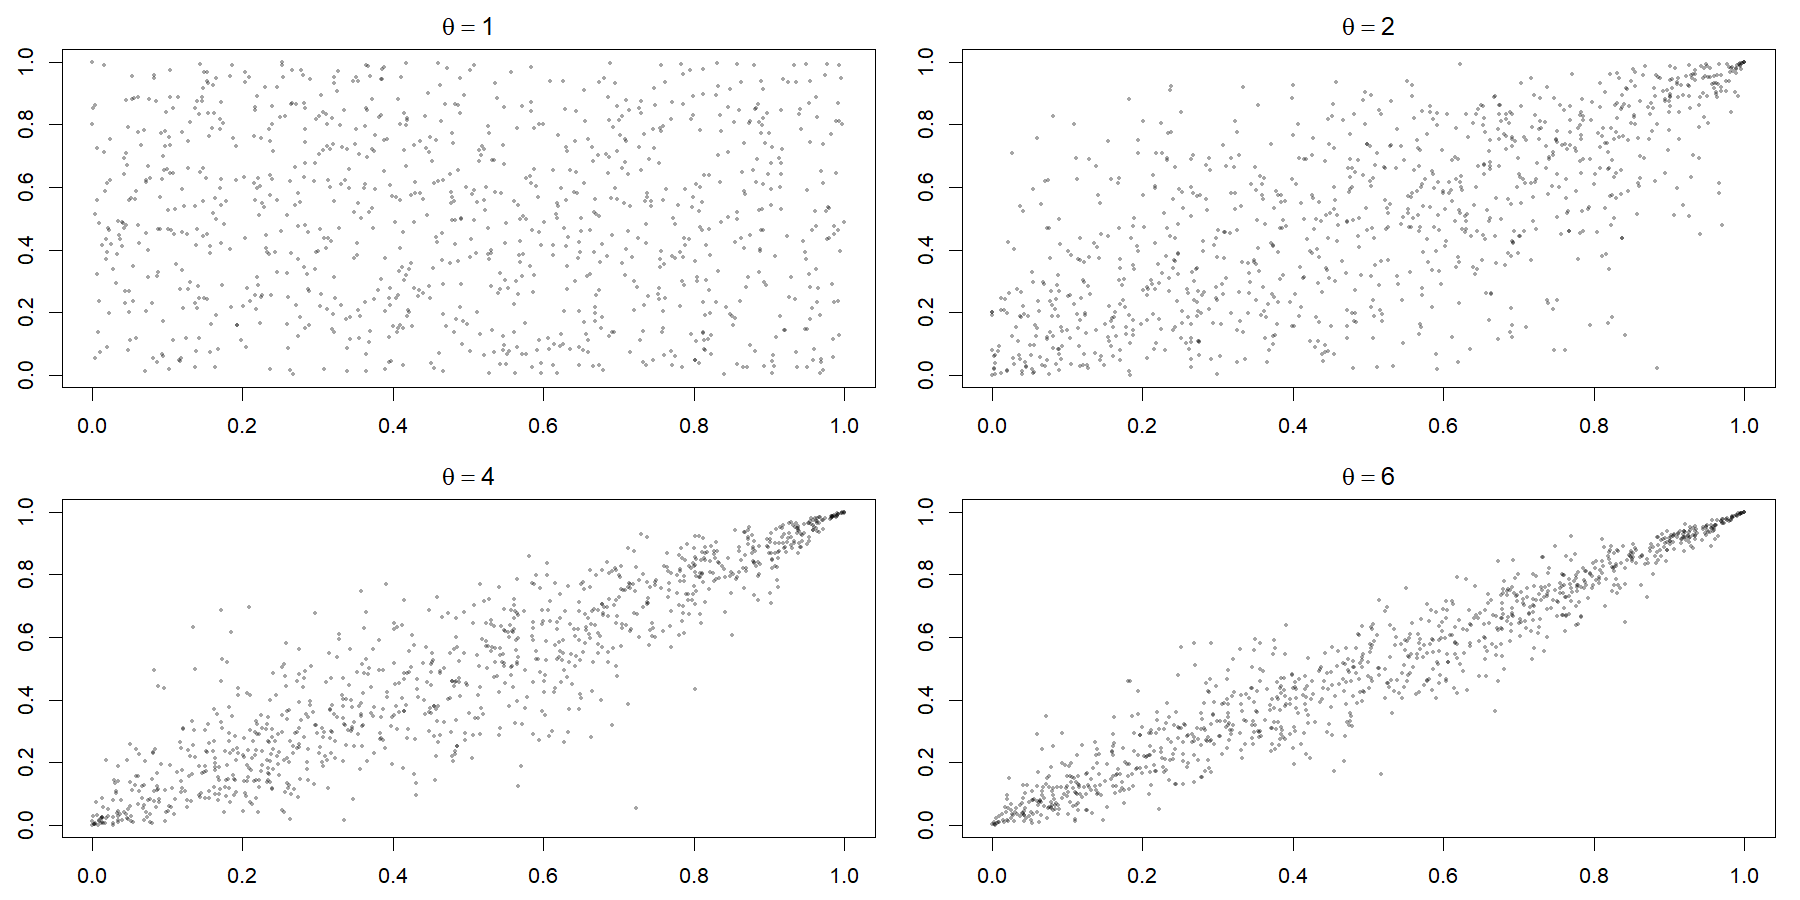
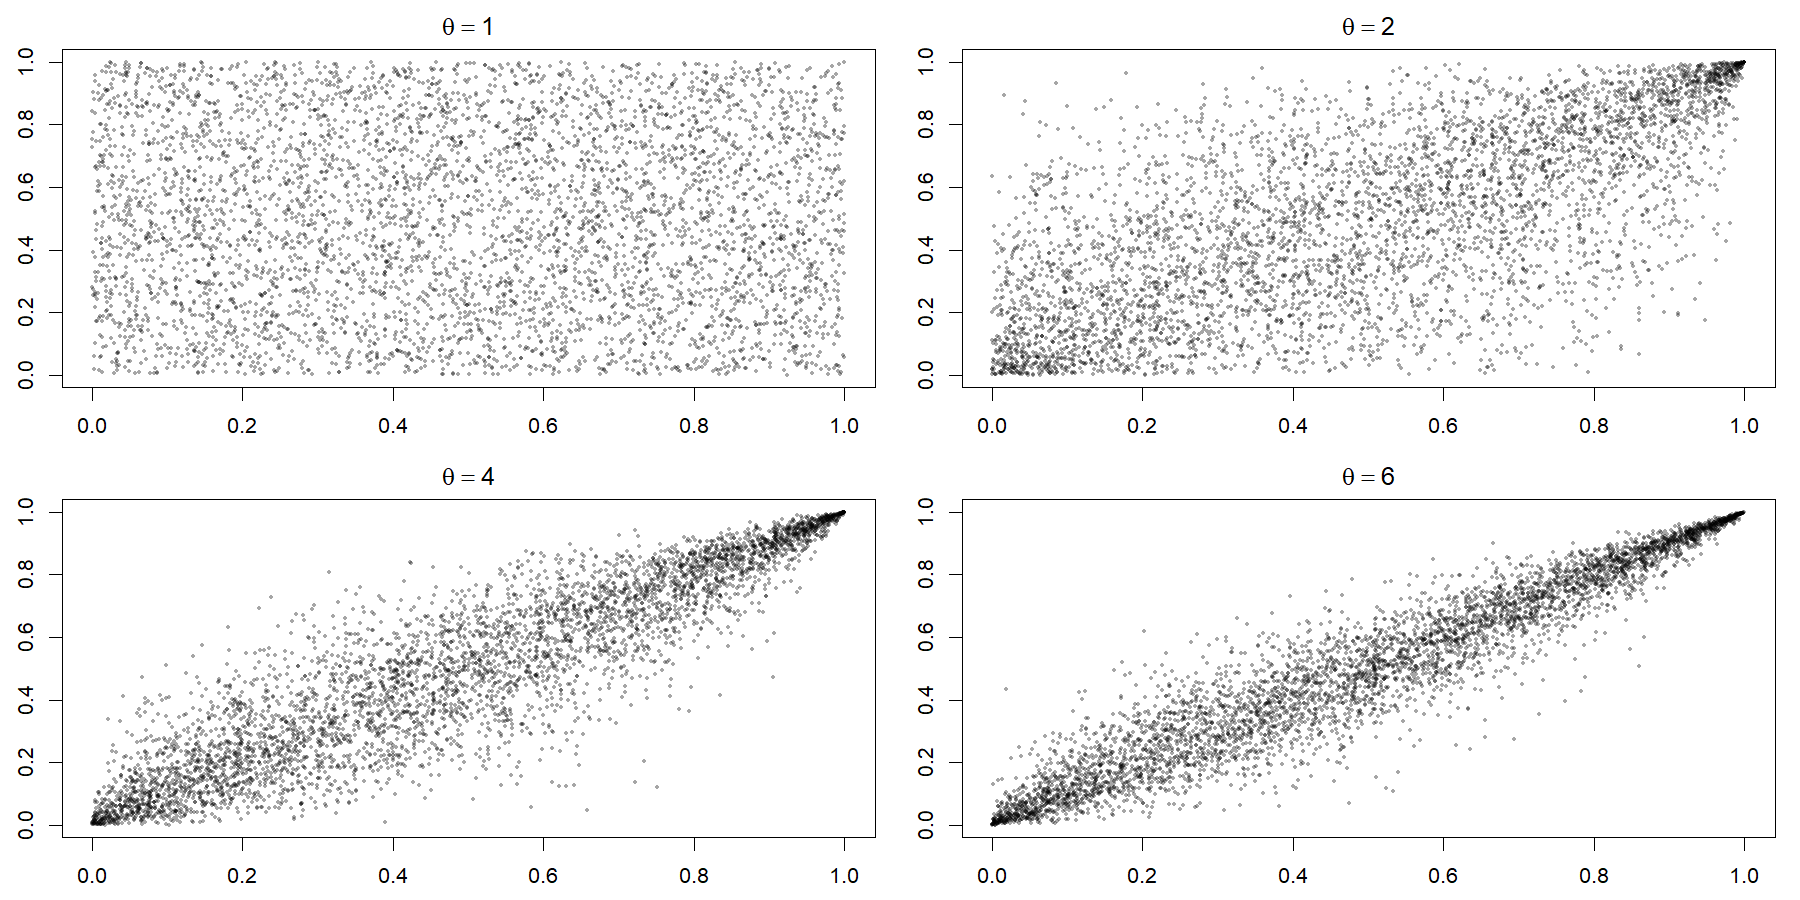
gumbel copula update

diff --git a/slides/mtp_shbk.tex b/slides/mtp_shbk.tex
@@ -306,31 +306,51 @@
     \end{figure}
 \end{frame}
 
-\begin{frame}{Copula Markov Chains}
-    
-    % Step 1: The Definition (Always visible)
-    \begin{block}{}
-        A stationary first-order Markov chain $\{X_t\}$ is fully defined by its marginal distribution $F$ and the copula $C$ of the pair $(X_{t-1}, X_t)$.
-    \end{block}
-
-    % Step 2: The Joint Model (Appears on click 2)
-    \begin{block}<2->{Joint Distribution}
-        \[ F_{X_{t-1}, X_t}(x_{t-1}, x_t) = C(F(x_{t-1}), F(x_t)) \]
-    \end{block}
-
-    % Step 3: The Transition (Appears on click 3)
-    \begin{block}<3->{Conditional Distribution}
-        \[ 
-        P(X_t \le x_t \mid X_{t-1} = x) = \frac{\partial}{\partial u} C(u, F(x_t)) \Big|_{u=F(x_{t-1})} 
-        \]
-    \end{block}
-
-\end{frame}
-
-\begin{frame}{Simulation Example: EGPD - Gumbel}
+\begin{frame}{Gumbel Copula: Upper Tail}
     \begin{figure}
         \centering
-        \includegraphics[width=\textwidth]{figures/egpd_gumbel_hist_ts.png}
+        \includegraphics[width=\textwidth]{figures/gumbel_upper_tail.png}
+    \end{figure}
+\end{frame}
+
+\begin{frame}{Gumbel Copula: Lower Tail}
+    \begin{figure}
+        \centering
+        \includegraphics[width=\textwidth]{figures/gumbel_lower_tail.png}
+    \end{figure}
+\end{frame}
+
+\begin{frame}{Copula Markov Chains}
+    
+    A stationary first-order Markov chain $\{X_t\}$ is fully defined by its marginal distribution $F$ and the copula $C$ of the pair $(X_{t-1}, X_t)$.
+
+    \begin{overprint}
+        \onslide<1>
+        \begin{block}{Joint Distribution}
+            \[ F_{X_{t-1}, X_t}(x_{t-1}, x_t) = C(F(x_{t-1}), F(x_t)) \]
+        \end{block}
+
+        \begin{block}{Conditional Distribution}
+            \[ 
+            P(X_t \le x_t \mid X_{t-1} = x_{t-1}) = \frac{\partial}{\partial u} C(u, F(x_t)) \Big|_{u=F(x_{t-1})} 
+            \]
+        \end{block}
+
+        \onslide<2>
+        \begin{block}{Sampling}
+            \vspace{0.2cm}
+            \begin{enumerate}
+                \item Sample $U_t \mid U_{t-1}$ s.t. $(U_{t-1}, U_t) \sim C$ (Rosenblatt transform)
+                \item $X_t = F^{-1}(U_t)$
+            \end{enumerate}
+        \end{block}
+    \end{overprint}
+\end{frame}
+
+\begin{frame}{Simulation Example: EGPD(2,1,0.1) - Gumbel(3)}
+    \begin{figure}
+        \centering
+        \includegraphics[width=\textwidth]{figures/copula_markov.png}
     \end{figure}
 \end{frame}
 
@@ -339,15 +359,6 @@
         \centering
         \includegraphics[width=\textwidth]{figures/egpd_gumbel_acf_pacf.png}
     \end{figure}
-\end{frame}
-
-\begin{frame}{Transition distribution}
-    \centering
-    \only<1>{\includegraphics[width=0.60\textwidth]{figures/egpd_gumbel_lag_plot.png}}
-    \only<2>{\includegraphics[width=0.60\textwidth]{figures/egpd_gumbel_lag_plot_upper_zoom.png}}
-    \only<3>{\includegraphics[width=0.60\textwidth]{figures/lag_upper.png}}
-    \only<4>{\includegraphics[width=0.60\textwidth]{figures/egpd_gumbel_lag_plot_lower_zoom.png}}
-    \only<5>{\includegraphics[width=0.60\textwidth]{figures/lag_lower.png}}
 \end{frame}
 
 \begin{frame}{Inference Strategies for Copula Models}